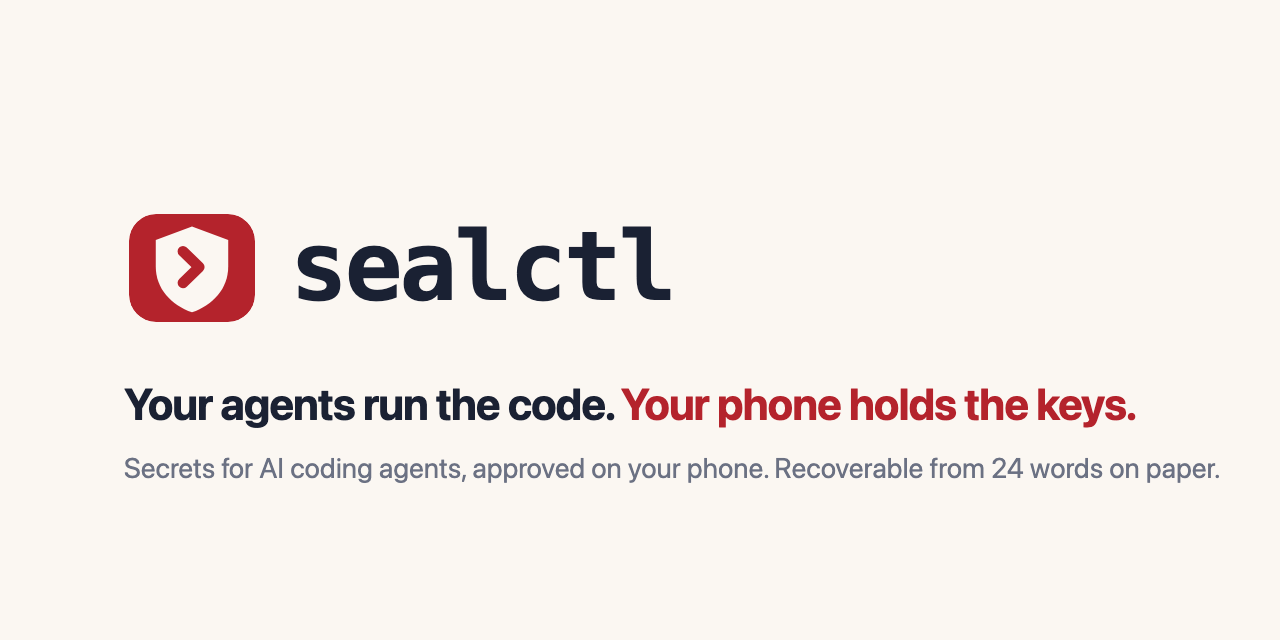
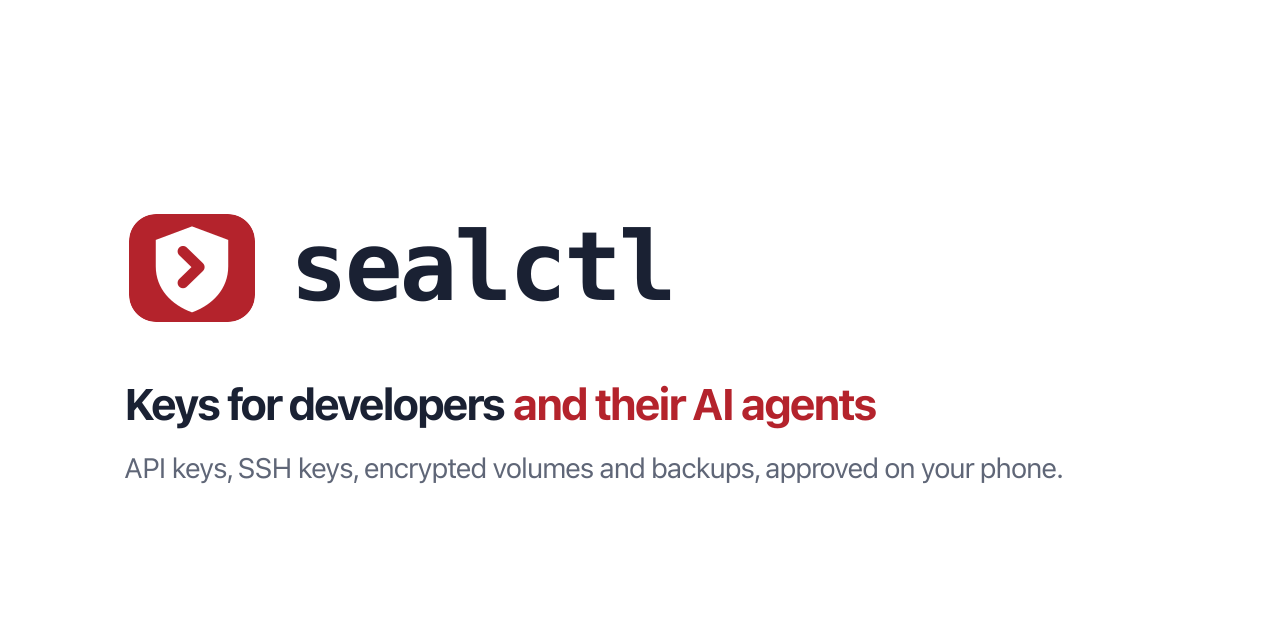
Brand: cool neutrals and crimson (palette B) (#4)
Replaces the warm cream/beige neutrals and the coral dark accent, which
read too close to another AI company's brand.

**Light:** paper `#ffffff`, surface `#f6f7f9`, surface-2 `#eef0f4`,
muted `#5f6677`, border `#e3e6ec`, border-strong `#cfd4dd`, accent-soft
`#f8e3e5`. Ink, ink-2, accent `#b4232c`, accent-hover, on-accent
unchanged.
**Dark:** accent `#ff5c63`, accent-hover `#ff767c`. Neutrals,
accent-soft `#3b2327` and on-accent unchanged.

- `brand/tokens.css` (source of truth; the website copies it byte for
byte)
- `brand/README.md`: colour table and contrast figures
- `brand/mark-dark.svg`: fill follows the new dark accent (shape
unchanged); light mark, mono mark, app icon and avatar unchanged
- `brand/social-preview.svg` / `.png`: white background, current
headline "Keys for developers and their AI agents" and summary; PNG
re-rendered at 1280×640 with `rsvg-convert`
- `SPEC.md`: palette direction and social-preview text note

Contrast (WCAG AA), light / dark:

| Pair | Light | Dark |
| --- | --- | --- |
| ink on paper / surface / surface-2 | 16.0 / 15.0 / 14.1 | 16.4 / 15.3
/ 14.1 |
| ink-2 on surface-2 | 8.3 | 10.1 |
| muted on paper / surface / surface-2 | 5.8 / 5.4 / 5.0 | 6.7 / 6.3 /
5.8 |
| accent on paper / surface / surface-2 | 6.5 / 6.1 / 5.7 | 6.2 / 5.8 /
5.3 |
| accent on accent-soft | 5.3 | 4.8 |
| on-accent on accent / accent-hover | 6.5 / 8.2 | 6.1 / 7.1 |

Follow-ups: website copy of `tokens.css` (its CI compares against this
[…]

diff --git a/brand/tokens.css b/brand/tokens.css
@@ -1,21 +1,21 @@
-/* sealctl brand tokens. Paper and ink neutrals, one sealing-wax accent. */
+/* sealctl brand tokens. Cool white and grey neutrals, navy ink, one sealing-wax accent. */
 :root {
   --font: ui-sans-serif, system-ui, -apple-system, "Segoe UI", Roboto, "Helvetica Neue", Arial, sans-serif;
   --mono: ui-monospace, "SF Mono", "JetBrains Mono", Menlo, Consolas, "Liberation Mono", monospace;
   --radius: 12px;
 
-  --paper: #fbf7f2;
-  --surface: #ffffff;
-  --surface-2: #f5eee6;
+  --paper: #ffffff;
+  --surface: #f6f7f9;
+  --surface-2: #eef0f4;
   --ink: #1a2133;
   --ink-2: #3e4659;
-  --muted: #6b7183;
-  --border: #ece2d8;
-  --border-strong: #dccdbf;
+  --muted: #5f6677;
+  --border: #e3e6ec;
+  --border-strong: #cfd4dd;
 
   --accent: #b4232c;
   --accent-hover: #991e25;
-  --accent-soft: #f2deda;
+  --accent-soft: #f8e3e5;
   --on-accent: #ffffff;
 }
 @media (prefers-color-scheme: dark) {
@@ -29,8 +29,8 @@
     --border: #242b3a;
     --border-strong: #323a4c;
 
-    --accent: #f0675c;
-    --accent-hover: #f27c73;
+    --accent: #ff5c63;
+    --accent-hover: #ff767c;
     --accent-soft: #3b2327;
     --on-accent: #12151c;
     color-scheme: dark;
@@ -46,8 +46,8 @@
   --border: #242b3a;
   --border-strong: #323a4c;
 
-  --accent: #f0675c;
-  --accent-hover: #f27c73;
+  --accent: #ff5c63;
+  --accent-hover: #ff767c;
   --accent-soft: #3b2327;
   --on-accent: #12151c;
   color-scheme: dark;

diff --git a/SPEC.md b/SPEC.md
@@ -39,9 +39,11 @@ No `FUNDING.yml`. sealctl is paid for with `sealctl buy`; a GitHub Sponsors butt
 ## Brand assets
 
 - `brand/tokens.css` is the source of truth for colour and type. The website copies it byte for byte and its CI fails on a difference; the apps generate their colour sets from it (Swift asset catalogue, Kotlin `Color` constants) with a script in the `app` repository.
+- Palette: cool neutrals (white and blue-grey surfaces, navy ink) with one sealing-wax crimson, a clearer red in dark mode. No cream, beige or coral: the warm neutrals were dropped to keep the brand distinct from other AI tools.
 - Change a colour here first, in one pull request that updates `tokens.css`, the table in `brand/README.md` and the contrast figures. Check contrast (WCAG AA) in both themes before merging.
 - Candidates to add when a second consumer needs them (they live in the website's `site.css` today): `--ok`, `--ok-soft`, `--wait`, `--focus`, `--shadow`, `--shadow-lg`, terminal colours. The brand README already says semantic colours stay separate from the accent; keep that.
 - SVGs are hand-edited and kept small (no editor metadata). After any change, `brand/export.sh` regenerates `avatar.png` and `social-preview.png` with `rsvg-convert` (or headless Chrome for the social preview's text), and the PNGs are committed with the SVG.
+- The social preview carries the website's headline and summary ("Keys for developers and their AI agents"; "API keys, SSH keys, encrypted volumes and backups, approved on your phone."); update it when they change.
 - Fonts: none are bundled; the brand uses system fonts. The social preview PNG is rendered on macOS so SF Mono is used.
 
 ## Community health files

diff --git a/brand/README.md b/brand/README.md
@@ -9,7 +9,7 @@
 | File | Use |
 | --- | --- |
 | `mark.svg` | The mark on light backgrounds (sealing wax `#b4232c`) |
-| `mark-dark.svg` | The mark on dark backgrounds (`#f0675c`) |
+| `mark-dark.svg` | The mark on dark backgrounds (`#ff5c63`) |
 | `mark-mono.svg` | One colour, ink `#1a2133`, for print and places that allow no colour |
 | `app-icon.svg` | App icon, 1024 px, full bleed; the stores round the corners. The window is dropped because the icon tile plays its part |
 | `avatar.png` | 512 px avatar for GitHub and other profiles |
@@ -25,16 +25,17 @@
 
 ## Colour
 
-One accent, sealing wax, on paper and ink neutrals. No gradients. All values are in `tokens.css`.
+One accent, sealing wax, on cool neutrals: white and blue-grey surfaces, navy ink. No cream or beige, no gradients. All values are in `tokens.css`.
 
 | Token | Light | Dark |
 | --- | --- | --- |
-| Paper (background) | `#fbf7f2` | `#0e121a` |
+| Paper (background) | `#ffffff` | `#0e121a` |
+| Surface (cards) | `#f6f7f9` | `#151a24` |
 | Ink (text) | `#1a2133` | `#eef0f5` |
-| Accent | `#b4232c` | `#f0675c` |
+| Accent | `#b4232c` | `#ff5c63` |
 | Text on accent | `#ffffff` | `#12151c` |
 
-Contrast: accent text on paper 6.1 : 1 (light) and 6.1 : 1 (dark); button labels on the accent 6.5 : 1 and 5.9 : 1. All pass WCAG AA.
+Contrast: accent text on paper 6.5 : 1 (light) and 6.2 : 1 (dark); button labels on the accent 6.5 : 1 and 6.1 : 1; muted text on `surface-2` 5.0 : 1 and 5.8 : 1. All pass WCAG AA.
 
 Semantic colours (passing tests, warnings) stay separate from the accent: green means success, never the brand.
 
